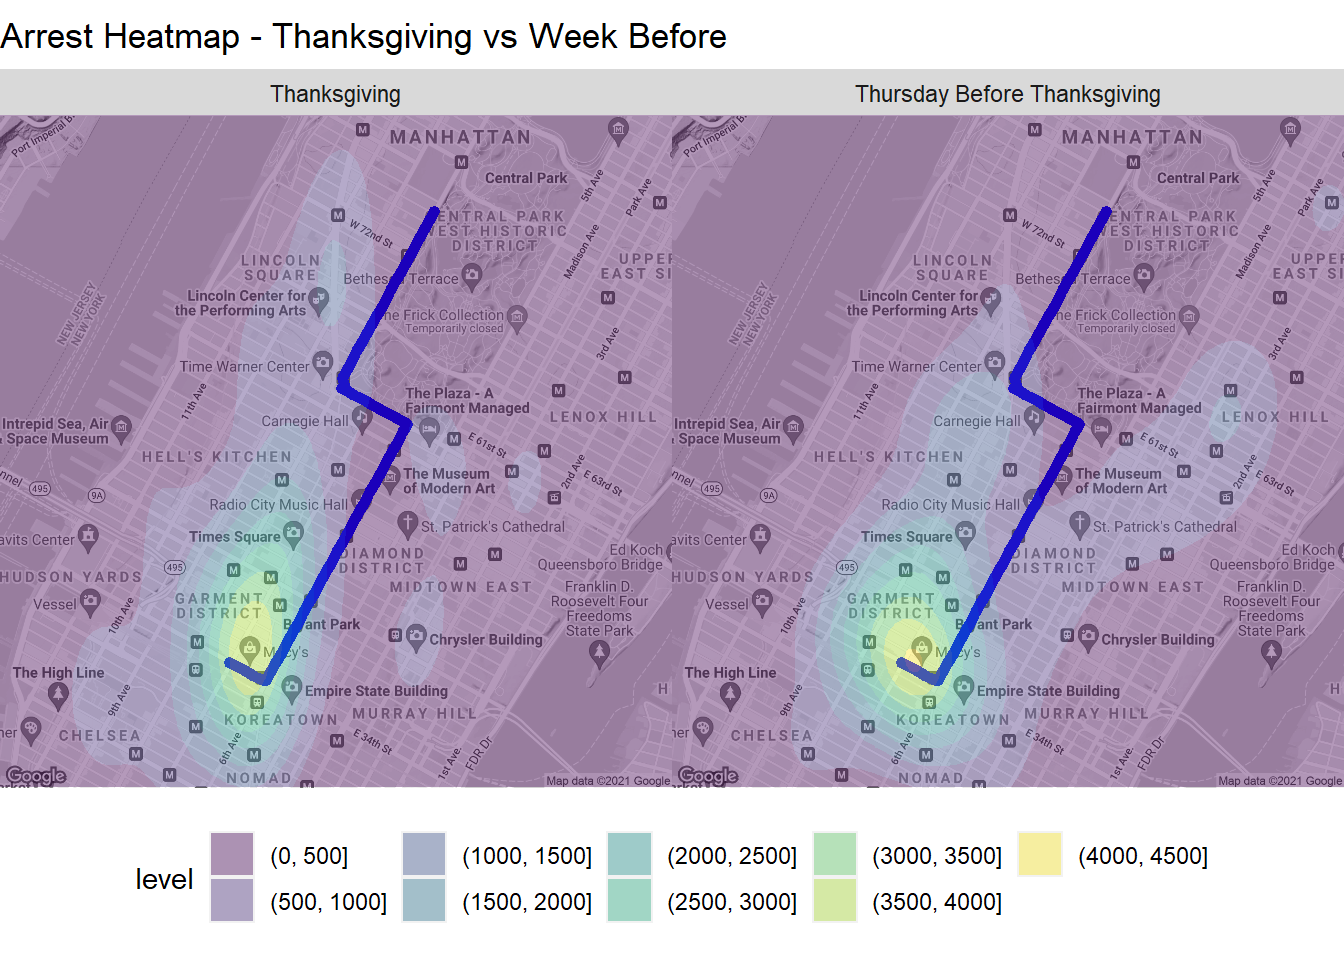
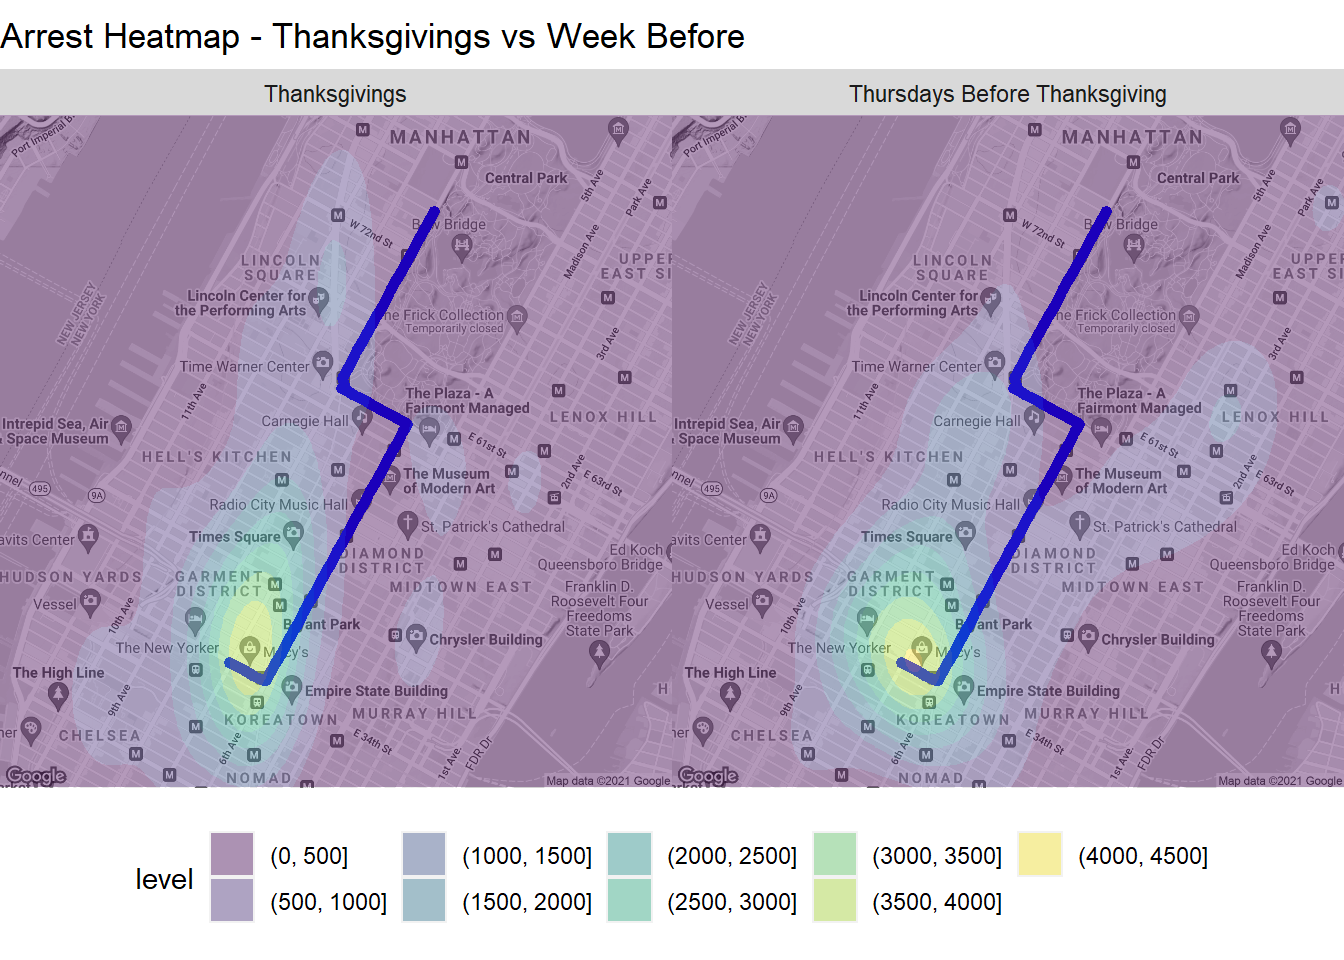
Switched in loess smoother for monthly aggregate. Still need to figure out scaling for ggmap...

diff --git a/docs/results.html b/docs/results.html
@@ -24,7 +24,7 @@
 <meta name="author" content="Ryan Rogers and Tyler Marshall" />
 
 
-<meta name="date" content="2021-12-09" />
+<meta name="date" content="2021-12-10" />
 
   <meta name="viewport" content="width=device-width, initial-scale=1" />
   <meta name="apple-mobile-web-app-capable" content="yes" />
@@ -378,7 +378,7 @@ Number_Arrests
 <div id="thanksgiving-day-parade---more-arrests-or-fewer" class="section level2" number="5.5">
 <h2><span class="header-section-number">5.5</span> Thanksgiving Day Parade - More arrests, or fewer?</h2>
 <p>Many of the events discussed so far have been fairly prominent occurrences, with the ability to affect arrest rates over long periods of time. However, these are not the only events that occur in New York City. Many of these other events are smaller in scope, and less historical, but do provide another interesting perspective on how circumstance can impact numbers of arrests. Let us consider NYC’s annual Thanksgiving Day parade. This annual event sees thousands of residents and tourists gather to spectate a common experience. Along with these throngs come an increased police presence, and possible opportunities for criminals. The question remains then, how does the Thanksgiving Thursday compare to any other November Thursday? See below a map of thefts in New York City on Thanksgiving Day (on the left), and the Thursdays prior (on the right) with the parade route shown in blue.</p>
-<p><img src="finalproj_files/figure-html/unnamed-chunk-16-1.png" width="672" /></p>
+<p><img src="finalproj_files/figure-html/unnamed-chunk-16-1.png" width="672" /><img src="finalproj_files/figure-html/unnamed-chunk-16-2.png" width="672" /></p>
 <p>The results are somewhat unexpected. It may seem intuitive to suspect elevated levels of crime around the parade route, but this does not seem to be the case. Many of the areas on the parade route, in fact, see little to no crime the day of the parade! We do note, however, a shift in the patterns of thefts on Thanksgiving day, with more thefts occurring on the Western side of the city than ordinary, with the area near Lincoln Center seeing a slightly higher increase. By contrast, many areas to the East of the parade route see a decline in thefts on Thanksgiving day.</p>
 </div>
 <div id="have-drunk-driving-arrests-gone-down-recently" class="section level2" number="5.6">

diff --git a/docs/404.html b/docs/404.html
@@ -24,7 +24,7 @@
 <meta name="author" content="Ryan Rogers and Tyler Marshall" />
 
 
-<meta name="date" content="2021-12-09" />
+<meta name="date" content="2021-12-10" />
 
   <meta name="viewport" content="width=device-width, initial-scale=1" />
   <meta name="apple-mobile-web-app-capable" content="yes" />
